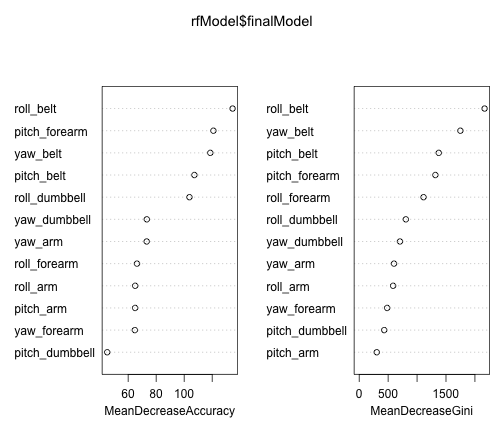
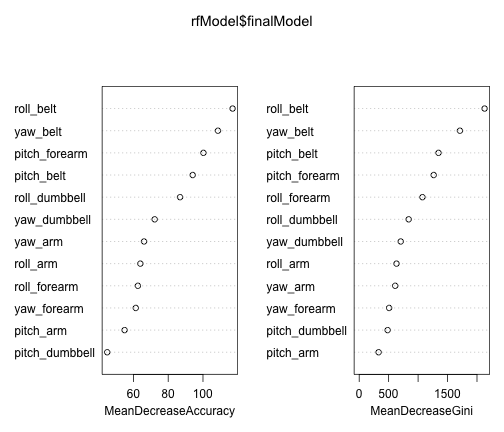
Final version

diff --git a/index.html b/index.html
@@ -181,103 +181,132 @@ hljs.initHighlightingOnLoad();
 <body>
 <h1>Analysis for the PML assignment.</h1>
 
-<p>Analysis for the PML project.</p>
+<p>The goal is to predict &#39;classe&#39; variable, based on any set of predictors and to apply the predictive model to the set of test cases. A quick look at the test cases shows, that the predictors used in the original paper (averages etc.) cannot be used in this case, becasue the values of all of them are not defined for test cases.</p>
 
-<pre><code class="r">library(caret)
+<p>Having no domain knowledge about the predictors I decided to use all available &#39;raw&#39; variables and random forest as my classifier. The choise of classifier is dictated by the ease of use for mutli-class classification and its robustness for predictors of unknow distributions.</p>
+
+<pre><code class="r"># Construct names of all variables of interest:
+ryp_components &lt;- expand.grid(c(&quot;roll&quot;, &quot;yaw&quot;, &quot;pitch&quot;), c(&quot;dumbbell&quot;, &quot;arm&quot;, 
+    &quot;forearm&quot;, &quot;belt&quot;))
+gam_components &lt;- expand.grid(c(&quot;gyros&quot;, &quot;accel&quot;, &quot;magnet&quot;), c(&quot;dumbbell&quot;, &quot;arm&quot;, 
+    &quot;forearm&quot;, &quot;belt&quot;), c(&quot;x&quot;, &quot;y&quot;, &quot;z&quot;))
+ryp_predictors &lt;- paste(ryp_components[[1]], ryp_components[[2]], sep = &quot;_&quot;)
+gam_predictors &lt;- paste(gam_components[[1]], gam_components[[2]], gam_components[[3]], 
+    sep = &quot;_&quot;)
+all_predictors &lt;- c(ryp_predictors, gam_predictors)
+</code></pre>
+
+<pre><code class="r"># Create formula to predict &#39;classe&#39; based on all predictors.
+fmla &lt;- as.formula(paste(&quot;classe ~ &quot;, paste(all_predictors, collapse = &quot;+&quot;)))
+</code></pre>
+
+<p>My model is based on the following formula: </p>
+
+<pre><code class="r">print(fmla)
+</code></pre>
+
+<pre><code>## classe ~ roll_dumbbell + yaw_dumbbell + pitch_dumbbell + roll_arm + 
+##     yaw_arm + pitch_arm + roll_forearm + yaw_forearm + pitch_forearm + 
+##     roll_belt + yaw_belt + pitch_belt + gyros_dumbbell_x + accel_dumbbell_x + 
+##     magnet_dumbbell_x + gyros_arm_x + accel_arm_x + magnet_arm_x + 
+##     gyros_forearm_x + accel_forearm_x + magnet_forearm_x + gyros_belt_x + 
+##     accel_belt_x + magnet_belt_x + gyros_dumbbell_y + accel_dumbbell_y + 
+##     magnet_dumbbell_y + gyros_arm_y + accel_arm_y + magnet_arm_y + 
+##     gyros_forearm_y + accel_forearm_y + magnet_forearm_y + gyros_belt_y + 
+##     accel_belt_y + magnet_belt_y + gyros_dumbbell_z + accel_dumbbell_z + 
+##     magnet_dumbbell_z + gyros_arm_z + accel_arm_z + magnet_arm_z + 
+##     gyros_forearm_z + accel_forearm_z + magnet_forearm_z + gyros_belt_z + 
+##     accel_belt_z + magnet_belt_z
 </code></pre>
 
 <pre><code>## Loading required package: lattice
 ## Loading required package: ggplot2
 </code></pre>
 
-<pre><code class="r">set.seed(199)
-trainData &lt;- read.csv(&quot;data/pml-training.csv&quot;)
-testData &lt;- read.csv(&quot;data/pml-testing.csv&quot;)
-trainIdx &lt;- createDataPartition(y = trainData$classe, p = 0.75, list = FALSE)
-trainSet &lt;- trainData[trainIdx, ]
-testSet &lt;- trainData[-trainIdx, ]
-</code></pre>
+<p>I split the available training data into two random partitions: 75% for the traning set and 25% for the validation set used for the final estimation of out of sample accuracy of the model.</p>
 
-<p>Construct names of all variables of interest:</p>
+<p>I use caret package to train randomForest on the traning set, and optimize the &#39;mtry&#39; parameter (the number of variables to sample at each split) with cross-validation to maximize accuracy. I use the &ldquo;oob&rdquo; (out of bag) method which is avaible for random forest and provide fast and reliable estimate of the out of sample error for each value of the paramerter.</p>
 
-<pre><code class="r">ryp_components &lt;- expand.grid(c(&quot;roll&quot;, &quot;yaw&quot;, &quot;pitch&quot;), c(&quot;dumbbell&quot;, &quot;arm&quot;, 
-    &quot;forearm&quot;, &quot;belt&quot;))
-ryp_predictors &lt;- paste(ryp_components[[1]], ryp_components[[2]], sep = &quot;_&quot;)
-all_predictors &lt;- ryp_predictors
-</code></pre>
-
-<p>Create formula to predict &#39;classe&#39; based on all predictors:</p>
-
-<pre><code class="r">fmla &lt;- as.formula(paste(&quot;classe ~ &quot;, paste(all_predictors, collapse = &quot;+&quot;)))
-print(fmla)
-</code></pre>
-
-<pre><code>## classe ~ roll_dumbbell + yaw_dumbbell + pitch_dumbbell + roll_arm + 
-##     yaw_arm + pitch_arm + roll_forearm + yaw_forearm + pitch_forearm + 
-##     roll_belt + yaw_belt + pitch_belt
-</code></pre>
-
-<p>Train a random forest model</p>
-
-<pre><code class="r">trControl &lt;- trainControl(verboseIter = TRUE, method = &quot;none&quot;)
-rfModel &lt;- train(fmla, data = trainSet, method = &quot;rf&quot;, importance = TRUE, ntrees = 200, 
-    trControl = trControl, tuneGrid = data.frame(mtry = 5), tuneLength = 1)
+<pre><code class="r">trControl &lt;- trainControl(verboseIter = TRUE, method = &quot;oob&quot;)
+rfModel &lt;- train(fmla, data = trainSet, method = &quot;rf&quot;, importance = FALSE, ntrees = 50, 
+    trControl = trControl, tuneGrid = data.frame(mtry = c(4, 5, 6)))
 </code></pre>
 
 <pre><code>## Loading required package: randomForest
 ## randomForest 4.6-10
 ## Type rfNews() to see new features/changes/bug fixes.
-## Loading required namespace: e1071
 </code></pre>
 
-<pre><code>## Fitting mtry = 5 on full training set
+<pre><code>## + : mtry=4
 </code></pre>
 
-<p>You can also embed plots, for example:</p>
-
-<pre><code class="r">varImpPlot(rfModel$finalModel)
+<pre><code>## Loading required namespace: e1071
 </code></pre>
 
[1 lines of base64/hex data omitted]
+<pre><code>## - : mtry=4 
+## + : mtry=5 
+## - : mtry=5 
+## + : mtry=6 
+## - : mtry=6 
+## Aggregating results
+## Selecting tuning parameters
+## Fitting mtry = 5 on full training set
+</code></pre>
 
-<p>Calculate out of sample accuracy (on the test set):</p>
+<p>Here are the cross validation out-of-sample accuracies for tested &#39;mtry&#39; values:</p>
+
+<pre><code class="r">print(rfModel$results)
+</code></pre>
+
+<pre><code>##   Accuracy  Kappa mtry
+## 1   0.9953 0.9941    4
+## 2   0.9954 0.9942    5
+## 3   0.9951 0.9938    6
+</code></pre>
+
+<p>For the optimal value of mtry=5 the cross validation out of sample accuracy is: 0.9954</p>
+
+<p>I use the validation set (holdout sample) to estimate the out of sample accuracy of the final model. </p>
 
 <pre><code class="r">predicted &lt;- predict(rfModel, newdata = testSet)
-print(confusionMatrix(predicted, testSet$classe))
+cm &lt;- confusionMatrix(predicted, testSet$classe)
+print(cm)
 </code></pre>
 
 <pre><code>## Confusion Matrix and Statistics
 ## 
 ##           Reference
 ## Prediction    A    B    C    D    E
-##          A 1390    8    0    0    0
-##          B    2  927    3    2    0
-##          C    0   12  844    7    3
-##          D    3    2    7  795    4
-##          E    0    0    1    0  894
+##          A 1395    6    0    0    0
+##          B    0  942    4    0    0
+##          C    0    1  848    7    0
+##          D    0    0    3  797    4
+##          E    0    0    0    0  897
 ## 
 ## Overall Statistics
 ##                                         
-##                Accuracy : 0.989         
-##                  95% CI : (0.986, 0.992)
+##                Accuracy : 0.995         
+##                  95% CI : (0.992, 0.997)
 ##     No Information Rate : 0.284         
 ##     P-Value [Acc &gt; NIR] : &lt;2e-16        
 ##                                         
-##                   Kappa : 0.986         
+##                   Kappa : 0.994         
 ##  Mcnemar&#39;s Test P-Value : NA            
 ## 
 ## Statistics by Class:
 ## 
 ##                      Class: A Class: B Class: C Class: D Class: E
-## Sensitivity             0.996    0.977    0.987    0.989    0.992
-## Specificity             0.998    0.998    0.995    0.996    1.000
-## Pos Pred Value          0.994    0.993    0.975    0.980    0.999
-## Neg Pred Value          0.999    0.994    0.997    0.998    0.998
+## Sensitivity             1.000    0.993    0.992    0.991    0.996
+## Specificity             0.998    0.999    0.998    0.998    1.000
+## Pos Pred Value          0.996    0.996    0.991    0.991    1.000
+## Neg Pred Value          1.000    0.998    0.998    0.998    0.999
 ## Prevalence              0.284    0.194    0.174    0.164    0.184
-## Detection Rate          0.283    0.189    0.172    0.162    0.182
-## Detection Prevalence    0.285    0.190    0.177    0.165    0.183
-## Balanced Accuracy       0.997    0.988    0.991    0.992    0.996
+## Detection Rate          0.284    0.192    0.173    0.163    0.183
+## Detection Prevalence    0.286    0.193    0.175    0.164    0.183
+## Balanced Accuracy       0.999    0.996    0.995    0.995    0.998
 </code></pre>
+
+<p>Out of sample accuracy calculated on the holdout sample is: 0.9949</p>
 
 </body>
 

diff --git a/index.md b/index.md
@@ -1,88 +1,119 @@
 Analysis for the PML assignment.
 ========================================================
 
-Analysis for the PML project.
+The goal is to predict 'classe' variable, based on any set of predictors and to apply the predictive model to the set of test cases. A quick look at the test cases shows, that the predictors used in the original paper (averages etc.) cannot be used in this case, becasue the values of all of them are not defined for test cases.
+
+Having no domain knowledge about the predictors I decided to use all available 'raw' variables and random forest as my classifier. The choise of classifier is dictated by the ease of use for mutli-class classification and its robustness for predictors of unknow distributions.
 
 
 ```r
-library(caret)
-```
-
-```
-## Loading required package: lattice
-## Loading required package: ggplot2
-```
-
-```r
-set.seed(199)
-trainData <- read.csv("data/pml-training.csv")
-testData <- read.csv("data/pml-testing.csv")
-trainIdx <- createDataPartition(y = trainData$classe, p = 0.75, list = FALSE)
-trainSet <- trainData[trainIdx, ]
-testSet <- trainData[-trainIdx, ]
-```
-
-
-
-Construct names of all variables of interest:
-
-```r
+# Construct names of all variables of interest:
 ryp_components <- expand.grid(c("roll", "yaw", "pitch"), c("dumbbell", "arm", 
     "forearm", "belt"))
+gam_components <- expand.grid(c("gyros", "accel", "magnet"), c("dumbbell", "arm", 
+    "forearm", "belt"), c("x", "y", "z"))
 ryp_predictors <- paste(ryp_components[[1]], ryp_components[[2]], sep = "_")
-all_predictors <- ryp_predictors
+gam_predictors <- paste(gam_components[[1]], gam_components[[2]], gam_components[[3]], 
+    sep = "_")
+all_predictors <- c(ryp_predictors, gam_predictors)
 ```
 
 
-Create formula to predict 'classe' based on all predictors:
 
 ```r
+# Create formula to predict 'classe' based on all predictors.
 fmla <- as.formula(paste("classe ~ ", paste(all_predictors, collapse = "+")))
+```
+
+
+My model is based on the following formula: 
+
+
+```r
 print(fmla)
 ```
 
 ```
 ## classe ~ roll_dumbbell + yaw_dumbbell + pitch_dumbbell + roll_arm + 
 ##     yaw_arm + pitch_arm + roll_forearm + yaw_forearm + pitch_forearm + 
-##     roll_belt + yaw_belt + pitch_belt
+##     roll_belt + yaw_belt + pitch_belt + gyros_dumbbell_x + accel_dumbbell_x + 
+##     magnet_dumbbell_x + gyros_arm_x + accel_arm_x + magnet_arm_x + 
+##     gyros_forearm_x + accel_forearm_x + magnet_forearm_x + gyros_belt_x + 
+##     accel_belt_x + magnet_belt_x + gyros_dumbbell_y + accel_dumbbell_y + 
+##     magnet_dumbbell_y + gyros_arm_y + accel_arm_y + magnet_arm_y + 
+##     gyros_forearm_y + accel_forearm_y + magnet_forearm_y + gyros_belt_y + 
+##     accel_belt_y + magnet_belt_y + gyros_dumbbell_z + accel_dumbbell_z + 
+##     magnet_dumbbell_z + gyros_arm_z + accel_arm_z + magnet_arm_z + 
+##     gyros_forearm_z + accel_forearm_z + magnet_forearm_z + gyros_belt_z + 
+##     accel_belt_z + magnet_belt_z
 ```
 
 
-Train a random forest model
+
+```
+## Loading required package: lattice
+## Loading required package: ggplot2
+```
+
+I split the available training data into two random partitions: 75% for the traning set and 25% for the validation set used for the final estimation of out of sample accuracy of the model.
+
+I use caret package to train randomForest on the traning set, and optimize the 'mtry' parameter (the number of variables to sample at each split) with cross-validation to maximize accuracy. I use the "oob" (out of bag) method which is avaible for random forest and provide fast and reliable estimate of the out of sample error for each value of the paramerter.
+
 
 ```r
-trControl <- trainControl(verboseIter = TRUE, method = "none")
-rfModel <- train(fmla, data = trainSet, method = "rf", importance = TRUE, ntrees = 200, 
-    trControl = trControl, tuneGrid = data.frame(mtry = 5), tuneLength = 1)
+trControl <- trainControl(verboseIter = TRUE, method = "oob")
+rfModel <- train(fmla, data = trainSet, method = "rf", importance = FALSE, ntrees = 50, 
+    trControl = trControl, tuneGrid = data.frame(mtry = c(4, 5, 6)))
 ```
 
 ```
 ## Loading required package: randomForest
 ## randomForest 4.6-10
 ## Type rfNews() to see new features/changes/bug fixes.
+```
+
+```
+## + : mtry=4
+```
+
+```
 ## Loading required namespace: e1071
 ```
 
 ```
+## - : mtry=4 
+## + : mtry=5 
+## - : mtry=5 
+## + : mtry=6 
+## - : mtry=6 
+## Aggregating results
+## Selecting tuning parameters
 ## Fitting mtry = 5 on full training set
 ```
 
 
-You can also embed plots, for example:
-
+Here are the cross validation out-of-sample accuracies for tested 'mtry' values:
 
 ```r
-varImpPlot(rfModel$finalModel)
+print(rfModel$results)
 ```
 
-![plot of chunk unnamed-chunk-5](figure/unnamed-chunk-5.png) 
+```
+##   Accuracy  Kappa mtry
+## 1   0.9953 0.9941    4
+## 2   0.9954 0.9942    5
+## 3   0.9951 0.9938    6
+```
 
+For the optimal value of mtry=5 the cross validation out of sample accuracy is: 0.9954
 
-Calculate out of sample accuracy (on the test set):
+I use the validation set (holdout sample) to estimate the out of sample accuracy of the final model. 
+
 
 ```r
 predicted <- predict(rfModel, newdata = testSet)
-print(confusionMatrix(predicted, testSet$classe))
+cm <- confusionMatrix(predicted, testSet$classe)
+print(cm)
 ```
 
 ```
@@ -90,35 +121,34 @@ print(confusionMatrix(predicted, testSet$classe))
 ## 
 ##           Reference
 ## Prediction    A    B    C    D    E
-##          A 1390    8    0    0    0
-##          B    2  927    3    2    0
-##          C    0   12  844    7    3
-##          D    3    2    7  795    4
-##          E    0    0    1    0  894
+##          A 1395    6    0    0    0
+##          B    0  942    4    0    0
+##          C    0    1  848    7    0
+##          D    0    0    3  797    4
+##          E    0    0    0    0  897
 ## 
 ## Overall Statistics
 ##                                         
-##                Accuracy : 0.989         
-##                  95% CI : (0.986, 0.992)
+##                Accuracy : 0.995         
+##                  95% CI : (0.992, 0.997)
 ##     No Information Rate : 0.284         
 ##     P-Value [Acc > NIR] : <2e-16        
 ##                                         
-##                   Kappa : 0.986         
+##                   Kappa : 0.994         
 ##  Mcnemar's Test P-Value : NA            
 ## 
 ## Statistics by Class:
 ## 
 ##                      Class: A Class: B Class: C Class: D Class: E
-## Sensitivity             0.996    0.977    0.987    0.989    0.992
-## Specificity             0.998    0.998    0.995    0.996    1.000
-## Pos Pred Value          0.994    0.993    0.975    0.980    0.999
-## Neg Pred Value          0.999    0.994    0.997    0.998    0.998
+## Sensitivity             1.000    0.993    0.992    0.991    0.996
+## Specificity             0.998    0.999    0.998    0.998    1.000
+## Pos Pred Value          0.996    0.996    0.991    0.991    1.000
+## Neg Pred Value          1.000    0.998    0.998    0.998    0.999
 ## Prevalence              0.284    0.194    0.174    0.164    0.184
-## Detection Rate          0.283    0.189    0.172    0.162    0.182
-## Detection Prevalence    0.285    0.190    0.177    0.165    0.183
-## Balanced Accuracy       0.997    0.988    0.991    0.992    0.996
+## Detection Rate          0.284    0.192    0.173    0.163    0.183
+## Detection Prevalence    0.286    0.193    0.175    0.164    0.183
+## Balanced Accuracy       0.999    0.996    0.995    0.995    0.998
 ```
 
 
-
-
+Out of sample accuracy calculated on the holdout sample is: 0.9949
